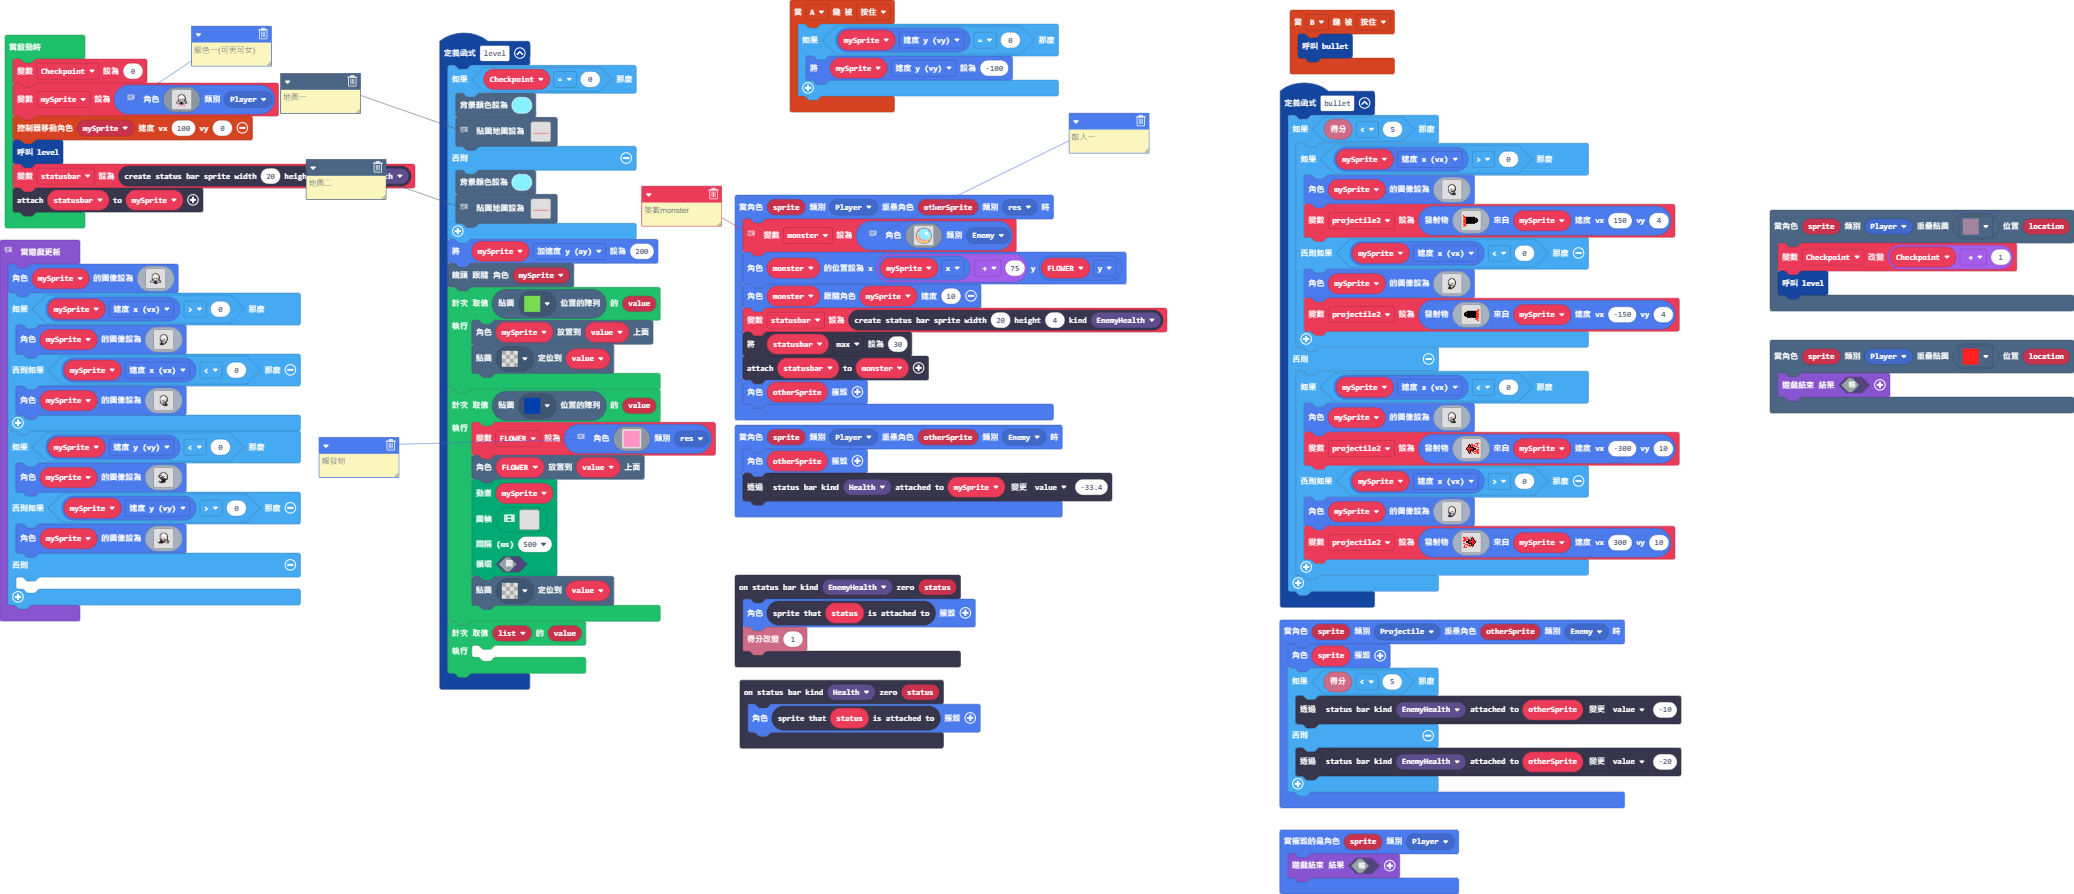
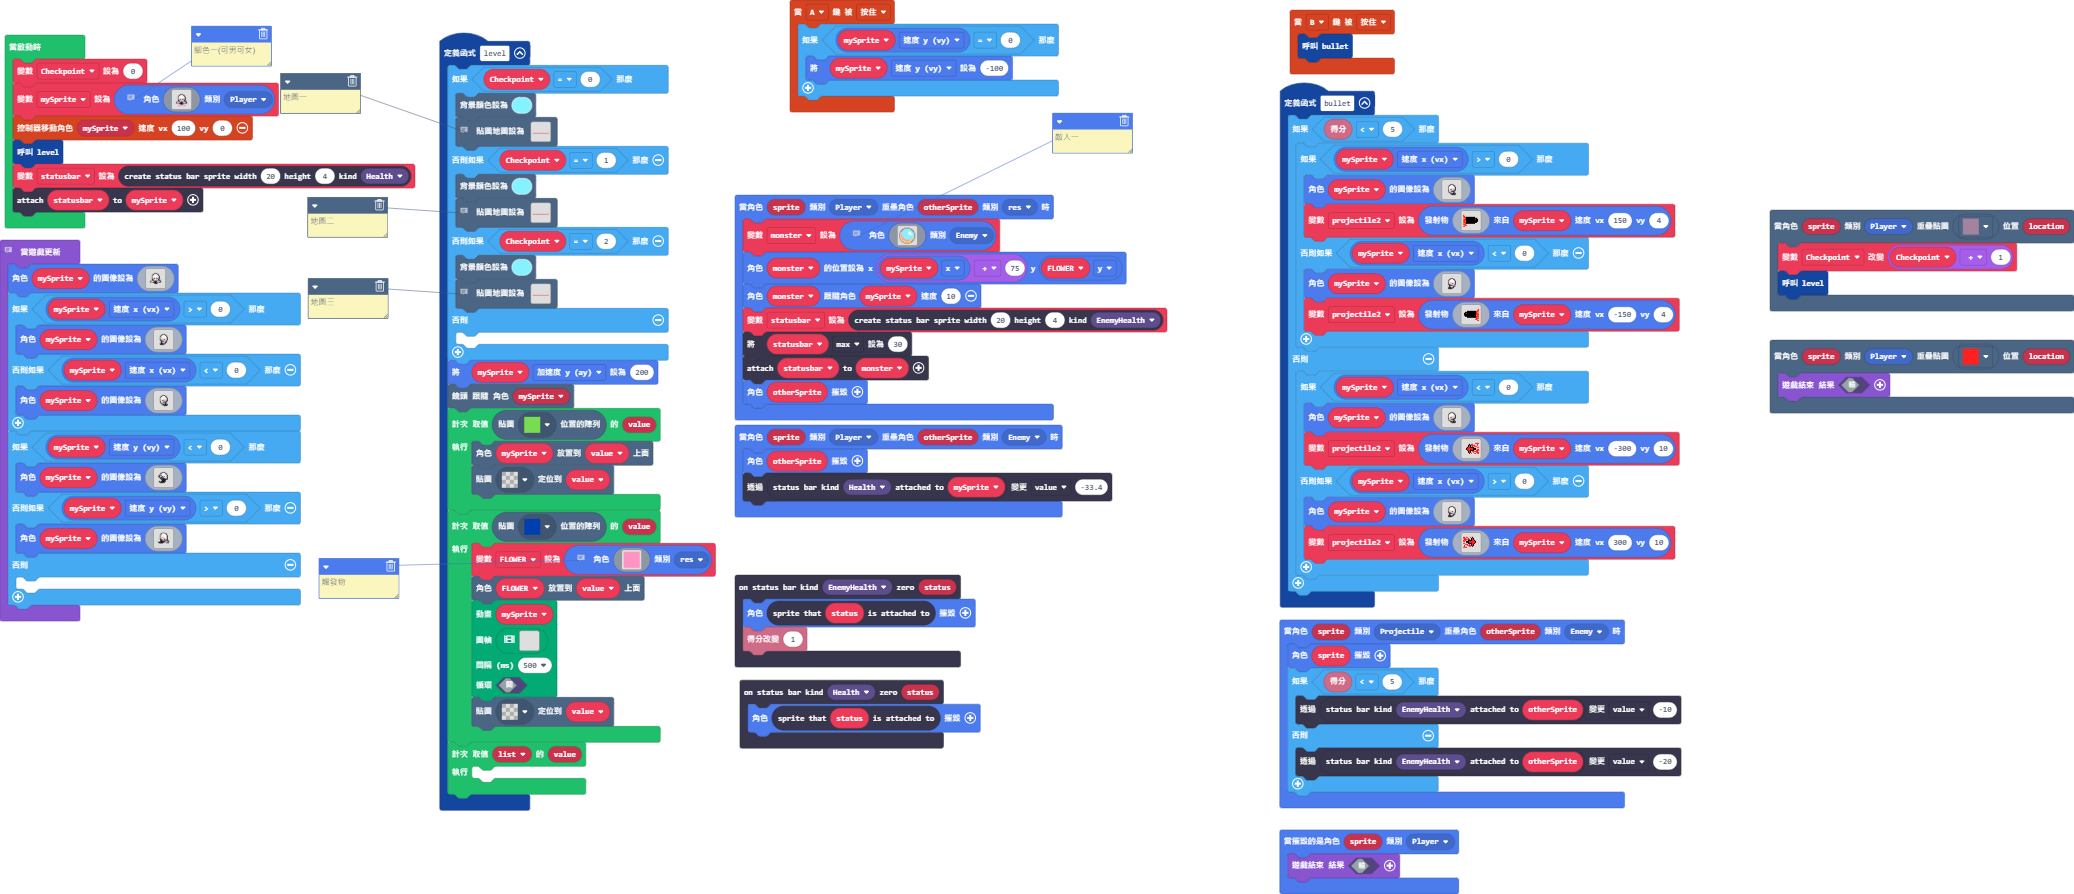
更新 main.blocks, main.ts, tilemap.g.jres, tilemap.g.ts

Changed region(s): [[0.1234, 0.151, 0.4937, 0.906], [0.4937, 0.1208, 0.5554, 0.1812], [0.3086, 0.0604, 0.3394, 0.1208]]

diff --git a/tilemap.g.ts b/tilemap.g.ts
@@ -223,6 +223,25 @@ namespace myTiles {
 ..................................................
 ..................................................
 `, [myTiles.transparency16,myTiles.tile2,sprites.dungeon.floorLight0,myTiles.tile3,myTiles.tile4,myTiles.tile5], TileScale.Sixteen);
+            case "層級12":
+            case "層級12":return tiles.createTilemap(hex`1000100000000000000000000000000000000000000000000000000000000000000000000000000000000000000000000000000000000000000000000000000000000000000000000000000000000000000000000000000000000000000000000000000000000000000000000000000000000000000000000000000000000000000000000000000000000000000000000000000000000000000000000000000000000000000000000000000000000000000000000000000000000000000000000000000000000000000000000000000000000000000000000000000000000000000000000000000000000000000000000000000000000000000000000000000000000000`, img`
+. . . . . . . . . . . . . . . . 
+. . . . . . . . . . . . . . . . 
+. . . . . . . . . . . . . . . . 
+. . . . . . . . . . . . . . . . 
+. . . . . . . . . . . . . . . . 
+. . . . . . . . . . . . . . . . 
+. . . . . . . . . . . . . . . . 
+. . . . . . . . . . . . . . . . 
+. . . . . . . . . . . . . . . . 
+. . . . . . . . . . . . . . . . 
+. . . . . . . . . . . . . . . . 
+. . . . . . . . . . . . . . . . 
+. . . . . . . . . . . . . . . . 
+. . . . . . . . . . . . . . . . 
+. . . . . . . . . . . . . . . . 
+. . . . . . . . . . . . . . . . 
+`, [myTiles.transparency16], TileScale.Sixteen);
         }
         return null;
     })

diff --git a/main.ts b/main.ts
@@ -12,10 +12,16 @@ function level () {
         scene.setBackgroundColor(9)
         // 地圖一
         tiles.setTilemap(tilemap`層級1`)
-    } else {
+    } else if (Checkpoint == 1) {
         scene.setBackgroundColor(9)
         // 地圖二
         tiles.setTilemap(tilemap`層級1`)
+    } else if (Checkpoint == 2) {
+        scene.setBackgroundColor(9)
+        // 地圖三
+        tiles.setTilemap(tilemap`層級1`)
+    } else {
+    	
     }
     mySprite.ay = 200
     scene.cameraFollowSprite(mySprite)
@@ -278,7 +284,6 @@ scene.onOverlapTile(SpriteKind.Player, assets.tile`myTile2`, function (sprite, l
     level()
 })
 sprites.onOverlap(SpriteKind.Player, SpriteKind.res, function (sprite, otherSprite) {
-    // 變數monster
     // 敵人一
     monster = sprites.create(img`
         . . . . . b b b b b b . . . . . 
